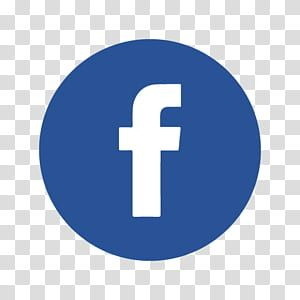
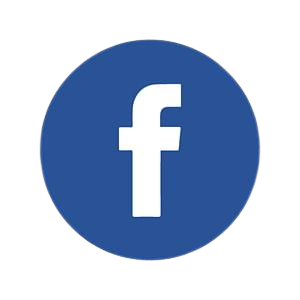
add Body

Changed region(s): [[0.0, 0.0, 1.0, 1.0]]

diff --git a/src/componentes/Footer/index.js b/src/componentes/Footer/index.js
@@ -6,9 +6,9 @@ export default function Footer(){
     return(
         <div className="redes">
             <img src={Instagram} alt="insta"></img>
-            <p>Instagram</p>
+            <p>@limonadapop</p>
             <img src={Facebook} alt="face"></img>
-            <p>Facebook</p>
+            <p>limonadapop</p>
         </div>
     );
 }

diff --git a/src/componentes/Pages/Home.js b/src/componentes/Pages/Home.js
@@ -1,10 +1,13 @@
 import React from "react";
+import Body from "../Body";
 import Footer from "../Footer";
 import Header from "../Header";
+
 export default function Home(){
     return(
         <>
         <Header />
+        <Body/>
         <Footer/>
         </>
     )

diff --git a/src/componentes/Footer/style.css b/src/componentes/Footer/style.css
@@ -5,5 +5,14 @@
     width: 100vw;
     align-items: center;
     display: flex;
+    background-color: #fdfbf6;
     
+}
+.redes img{
+    width: 40px;
+    height: 40px;
+
+}
+.redes p{
+    font-family: 'Segoe UI', Tahoma, Geneva, Verdana, sans-serif;
 }

diff --git a/src/componentes/Header/index.js b/src/componentes/Header/index.js
@@ -7,7 +7,7 @@ export default function Header(){
         <header className="header">
             <img src={logo} alt="logo limonada" width={500} height={200} />
             <button>Menu</button>
-
+            
         </header>
     )
 }

diff --git a/src/componentes/Body/index.js b/src/componentes/Body/index.js
@@ -1,0 +1,9 @@
+import React from "react";
+import Fhome from "../../assets/fotoHome.jpg"
+
+export default function Body(){
+    return(
+
+        <img classeName="Fhome" src={Fhome} alt="FotoHome" ></img>
+    );
+}

diff --git a/src/componentes/Body/style.css b/src/componentes/Body/style.css
@@ -1,0 +1,9 @@
+.Fhome img{
+    position: fixed;
+    left: 0;
+    bottom: 0;
+    align-items: center;
+    display: flex;
+    width: 100vw;
+    height: 100vw;
+}
